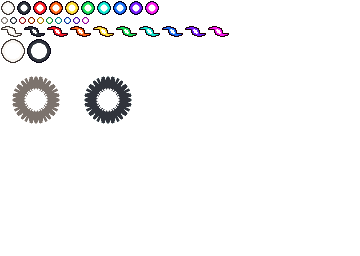
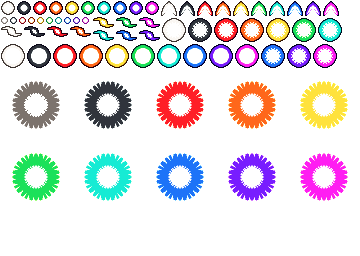
more bullet sprites, less stupid bullet sprite loading, rebalance

diff --git a/game.js b/game.js
@@ -24,6 +24,7 @@ let fps = 0;
 let msSinceLastFpsCheck = 0;
 let framesSinceLastFpsCheck = 0;
 let bgScroll = 0;
+let nextTick, menuStartTime, activeMenu;
 const bgScrollRate = 50;
 
 const spriteImages = {};
@@ -41,7 +42,7 @@ function keydown(e) {
     if (!e.shiftKey && !e.ctrlKey && !e.metaKey && !e.altKey) {
         initEventListeners();
         lastFrameTime = document.timeline.currentTime;
-        requestAnimationFrame(tick);
+        nextTick = requestAnimationFrame(tick);
         removeEventListener("keydown", keydown);
     }
 }
@@ -57,14 +58,15 @@ function retryKeyDown(e) {
         Pickup.pickups.clear();
 
         lastFrameTime = document.timeline.currentTime;
-        requestAnimationFrame(tick);
+        nextTick = requestAnimationFrame(tick);
     }
 }
 
 function loadMenu(name) {
+    menuStartTime = document.timeline.currentTime;
+    activeMenu = name;
     let lastMenuFrameTime = document.timeline.currentTime;
     function render(ms) {
-        draw();
         const elapsed = ms - lastMenuFrameTime;
         gpctx.globalAlpha = elapsed / (1000 * Menu[name].transition);
         gpctx.fillStyle = Menu[name].bgCol;
@@ -78,6 +80,7 @@ function loadMenu(name) {
         if (Menu[name].transition !== 0 && elapsed / (1000 * Menu[name].transition) < 1) {
             requestAnimationFrame(render);
         } else {
+            cancelAnimationFrame(nextTick);
             gpctx.globalAlpha = 1;
         }
     }
@@ -97,14 +100,20 @@ function drawText(context, text, sx, sy, scale) {
         context.drawImage(fontSheet, font[text[i]][0], font[text[i]][1], 7, 17, sx + i * 7 * scale, sy, 7 * scale, 17 * scale);
 }
 function drawBullet(b) {
-    let sprData = bullet[b.type][b.variety];
-    if (!sprData) sprData = bullet["basic"][2];
-
-    gpctx.setTransform(1, 0, 0, 1, b.x, b.y);
-    gpctx.rotate(Math.atan(b.velX / b.velY));
-    gpctx.drawImage(bulletSheet, ...sprData, Math.floor(-sprData[2] / 2), Math.floor(-sprData[3] / 2), sprData[2], sprData[3]);
-    gpctx.rotate(-Math.atan(b.velX / b.velY));
-    gpctx.setTransform(1, 0, 0, 1, 0, 0);
+    try {
+        let sprData = bullet[b.sprite][b.variety];
+        if (!sprData) sprData = bullet["basic"][2];
+    
+        gpctx.setTransform(1, 0, 0, 1, b.x, b.y);
+        gpctx.rotate(Math.atan(b.velX / b.velY));
+        gpctx.drawImage(bulletSheet, ...sprData, Math.floor(-sprData[2] / 2), Math.floor(-sprData[3] / 2), sprData[2], sprData[3]);
+        gpctx.rotate(-Math.atan(b.velX / b.velY));
+        gpctx.setTransform(1, 0, 0, 1, 0, 0);
+    }
+    catch (e) {
+        console.log(bullet[b.sprite], b.variety);
+        throw e;
+    }
 }
 
 // actually implement this??
@@ -148,6 +157,8 @@ function draw() {
         if (spriteImages.enemy.hasOwnProperty(`${i.type}Wings${i.wingState}`))
             gpctx.drawImage(spriteImages.enemy[`${i.type}Wings${i.wingState}`], Math.floor(i.x - spriteImages.enemy[`${i.type}Wings${i.wingState}`].width / 2), Math.floor(i.y - spriteImages.enemy[`${i.type}Wings${i.wingState}`].height / 2));
     }
+
+    // render menu!! yippee!!
 }
 
 function drawUI() {
@@ -225,9 +236,8 @@ function tick(ms) {
         addEventListener("keydown", retryKeyDown);
     } else if (Global.gameWon) {
         loadMenu("win");
-    } else {
-        requestAnimationFrame(tick);
     }
+    nextTick = requestAnimationFrame(tick);
 }
 
 function initEventListeners() {
